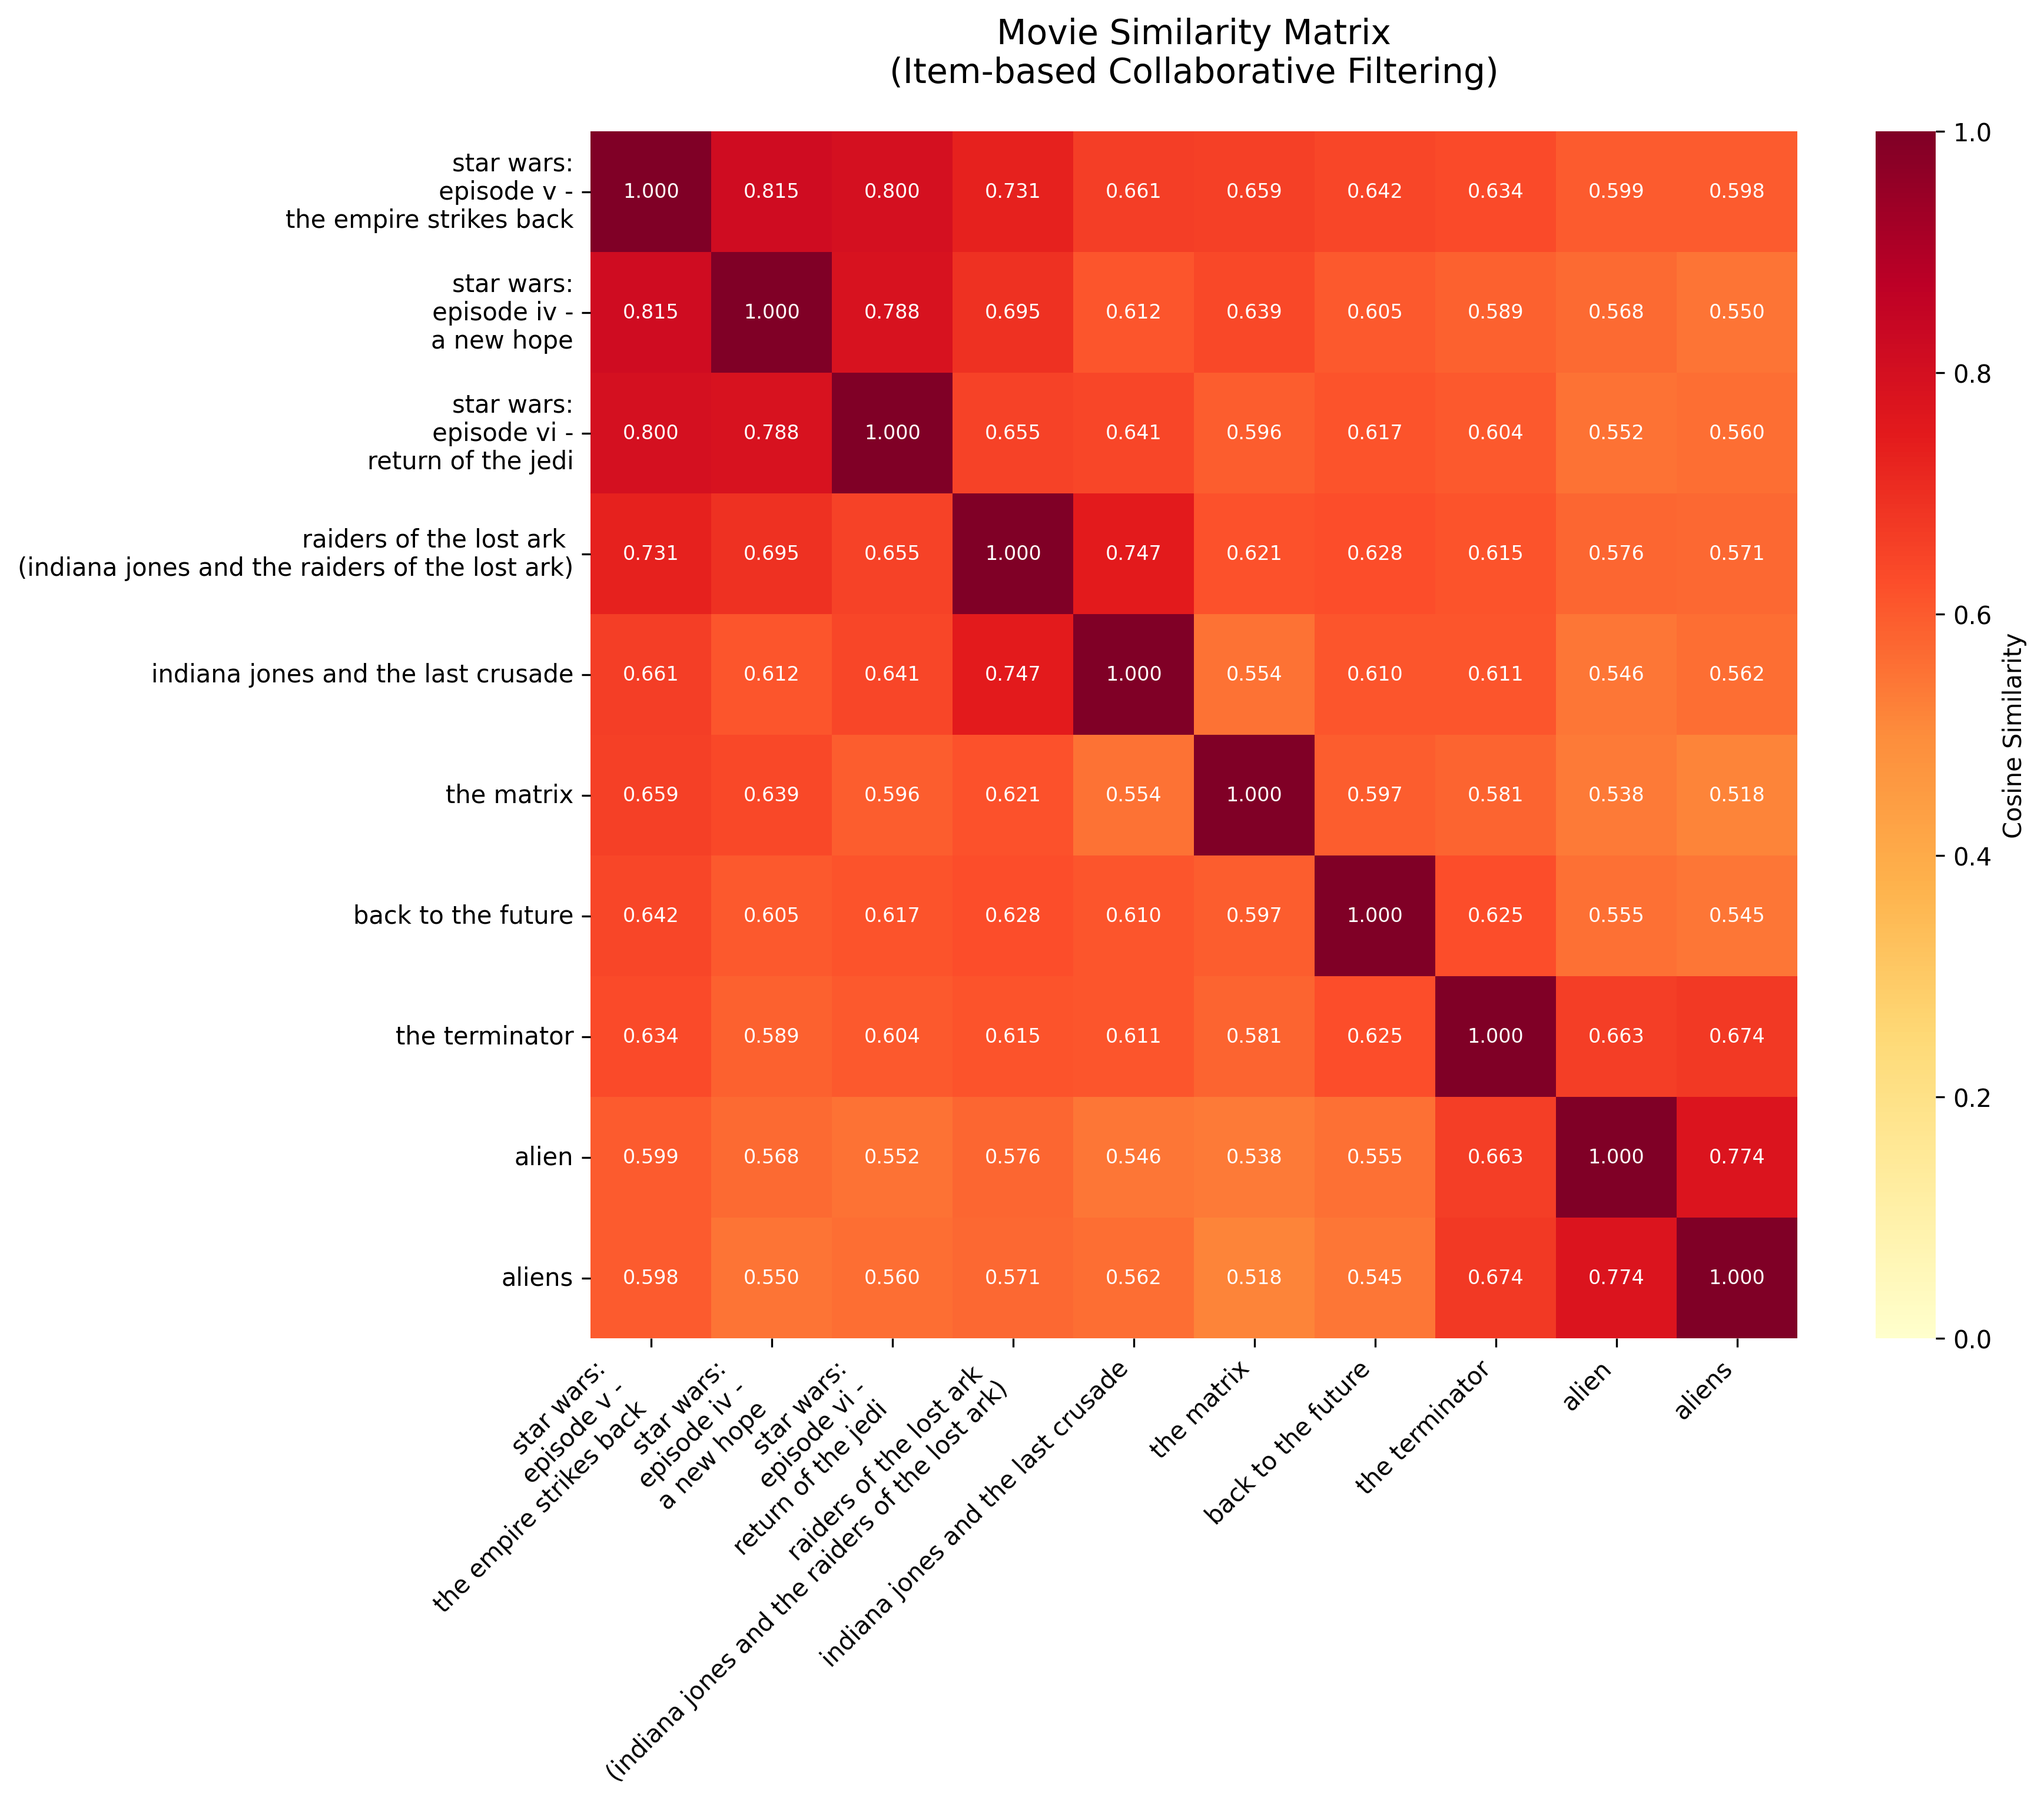
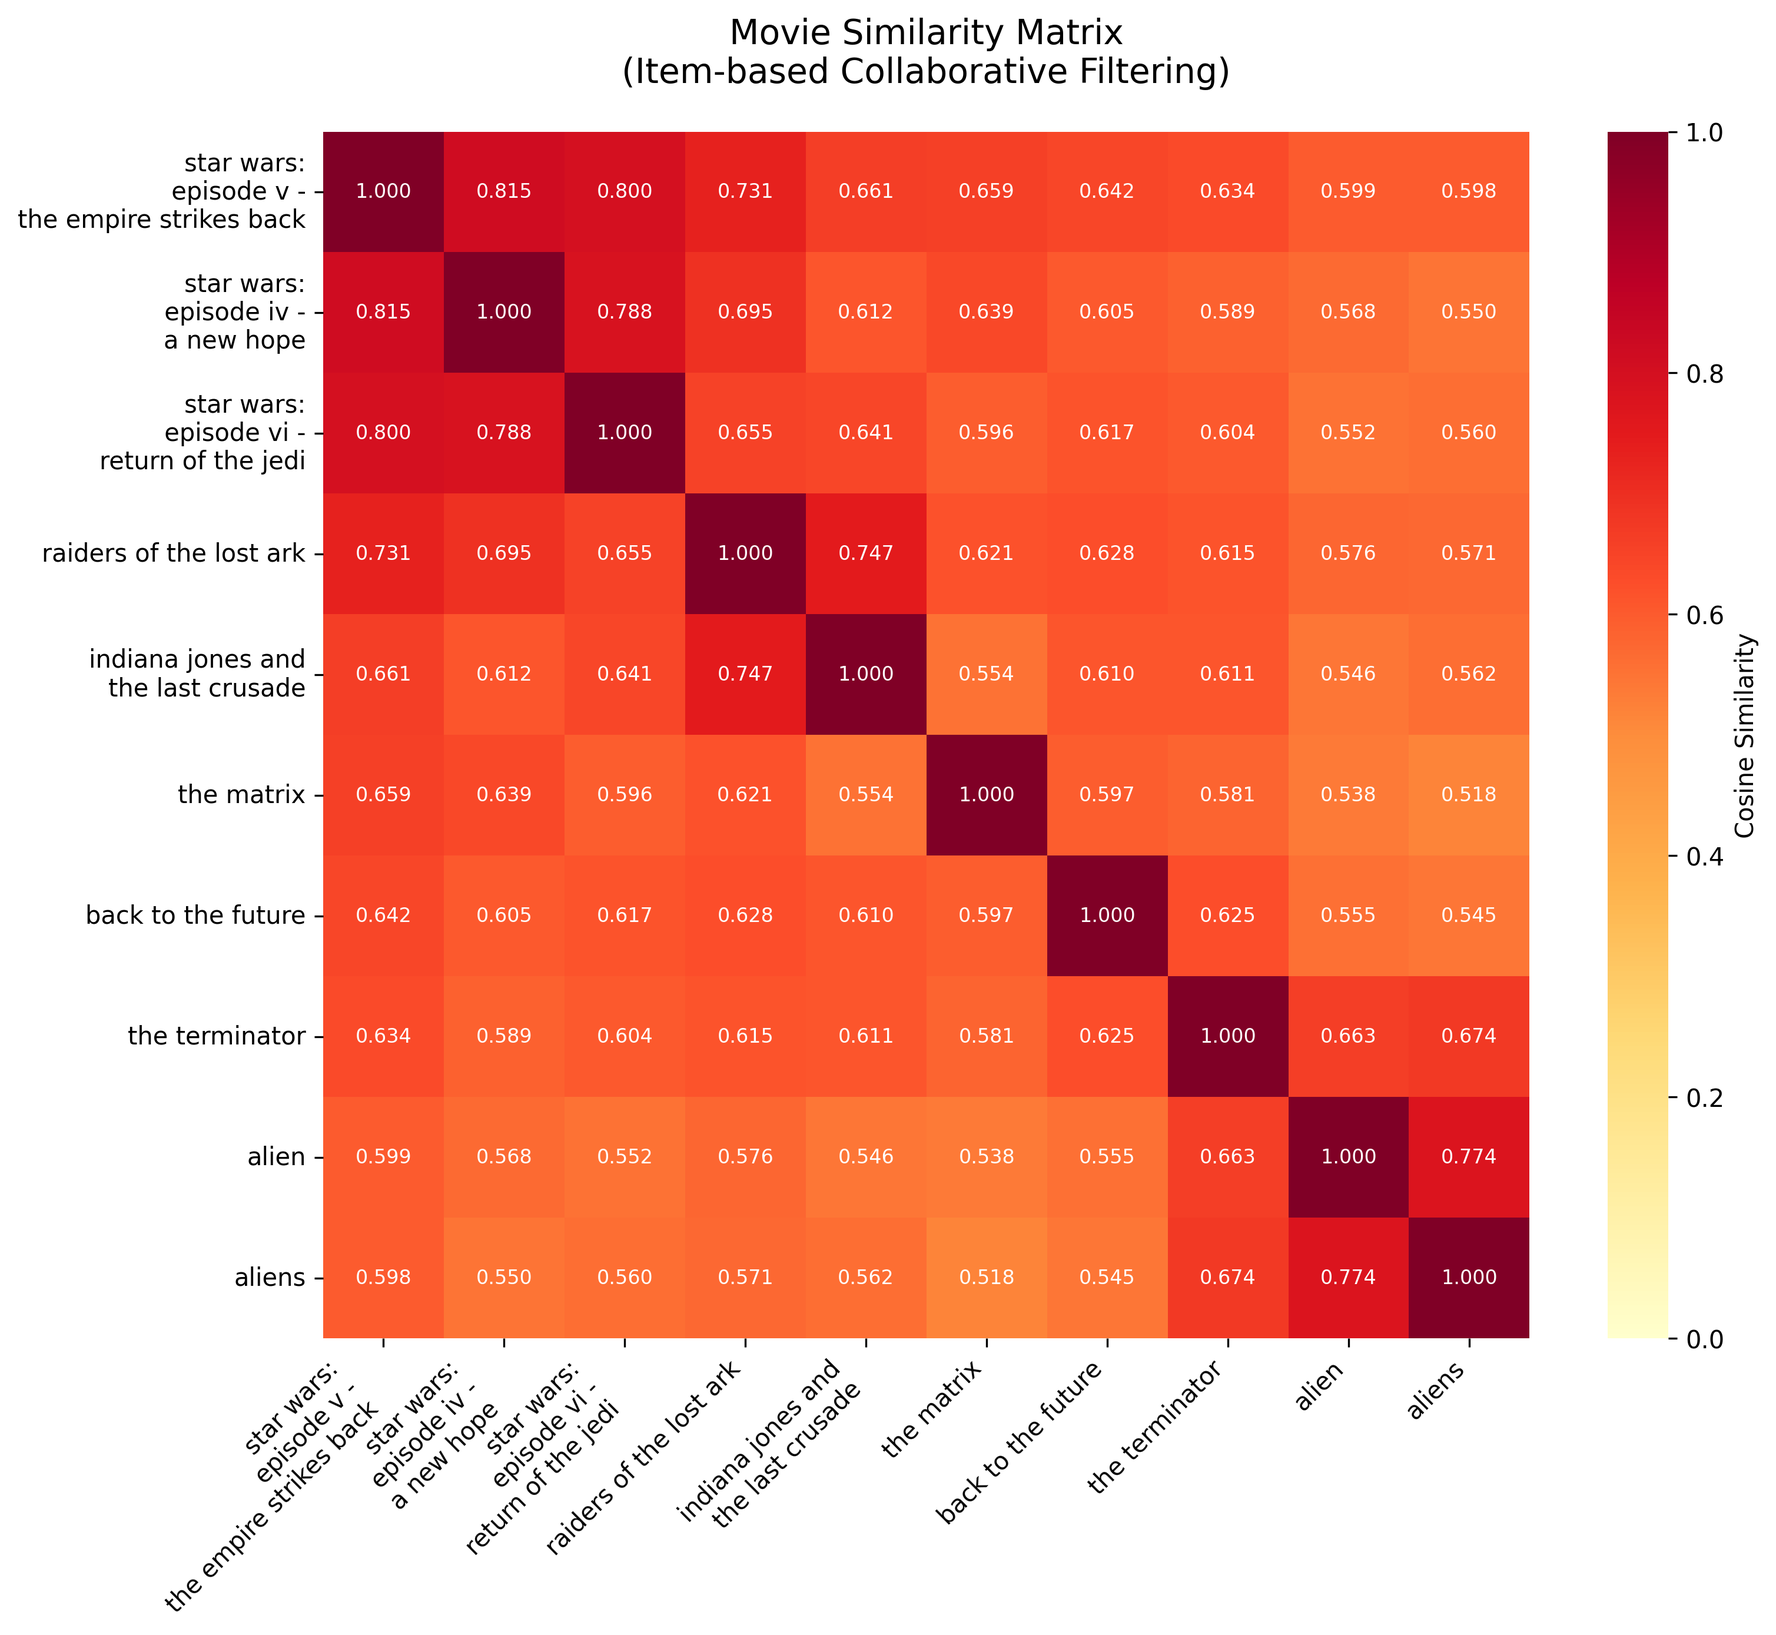
minor plot style change

diff --git a/src/02807_project/visualize_similarities.py b/src/02807_project/visualize_similarities.py
@@ -1,6 +1,7 @@
 """Visualize movie similarity matrix for paper/presentation."""
 
 import argparse
+import re
 from pathlib import Path
 
 import matplotlib.pyplot as plt
@@ -104,8 +105,10 @@ def find_top_similar_pairs(
 
 
 def condense_movie_title(title: str) -> str:
-    """Condense long movie titles by adding newlines for better plot readability."""
-    return title.replace(":", ":\n").replace(" - ", " -\n").replace("(", "\n(").replace(",", ",\n")
+    # Remove text between parentheses (including the parentheses)
+    title = re.sub(r"\s*\([^)]*\)", "", title)
+    # Add newlines at colons, dashes, commas, and 'and'
+    return title.replace(":", ":\n").replace(" - ", " -\n").replace(",", ",\n").replace(" and ", " and\n")
 
 
 def plot_similarity_heatmap(movie_names: list[str], sim_matrix: np.ndarray, output_path: Path | None = None) -> None:
@@ -165,7 +168,9 @@ def main() -> None:
     parser = argparse.ArgumentParser(description="Visualize movie similarity matrix")
     parser.add_argument("--n-movies", type=int, default=5, help="Number of movies in cluster (default: 5)")
     parser.add_argument("--n-pairs", type=int, default=10, help="Number of top pairs to show (default: 10)")
-    parser.add_argument("--output", type=str, default=Path("data/analysis/"), help="Output path for heatmap (default: data/analysis/)")  # noqa: E501
+    parser.add_argument(
+        "--output", type=str, default=Path("data/analysis/"), help="Output path for heatmap (default: data/analysis/)"
+    )
     parser.add_argument("--min-common-users", type=int, default=100, help="Minimum common users for similarity")
     parser.add_argument("--min-similarity", type=float, default=0.0, help="Minimum similarity threshold (default: 0.0)")
     parser.add_argument("--min-rating", type=float, default=0.0, help="Minimum rating threshold")
